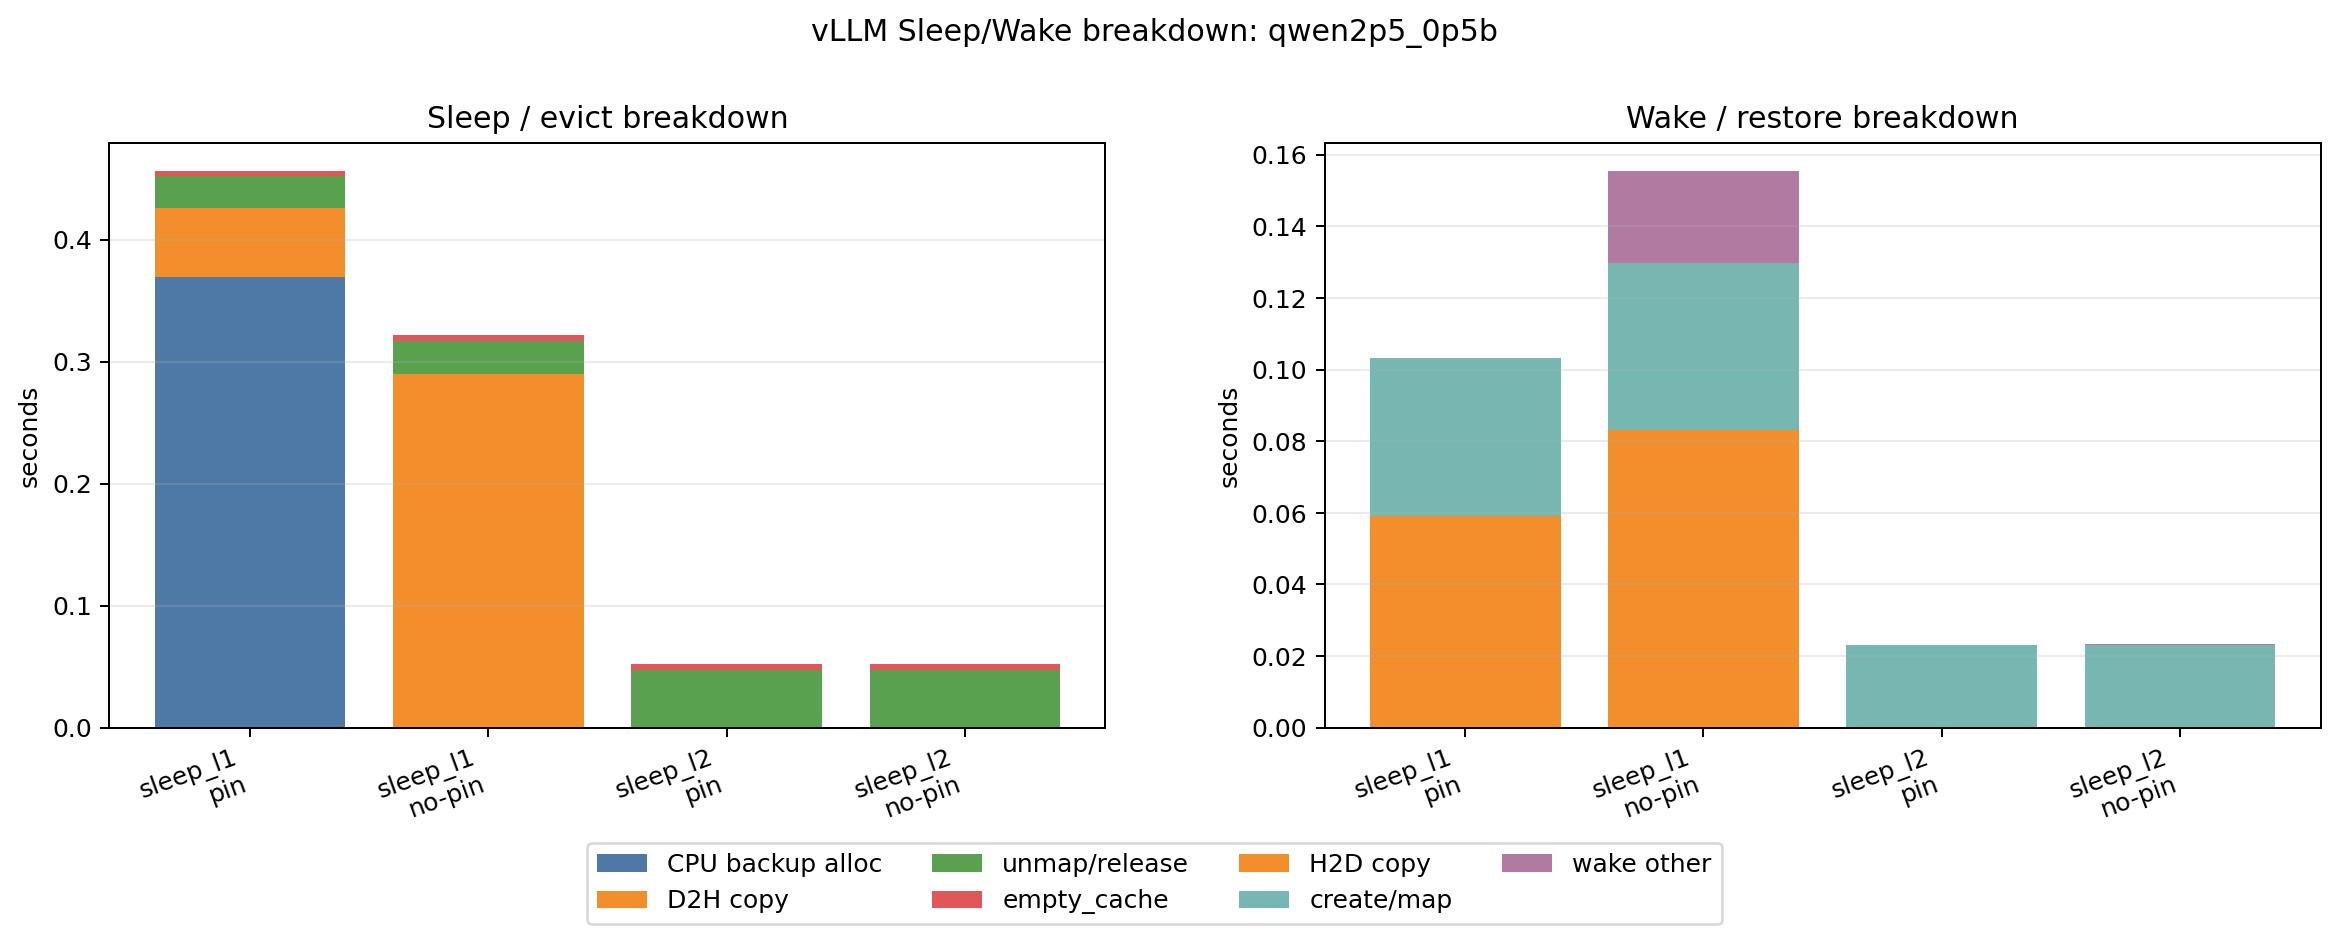
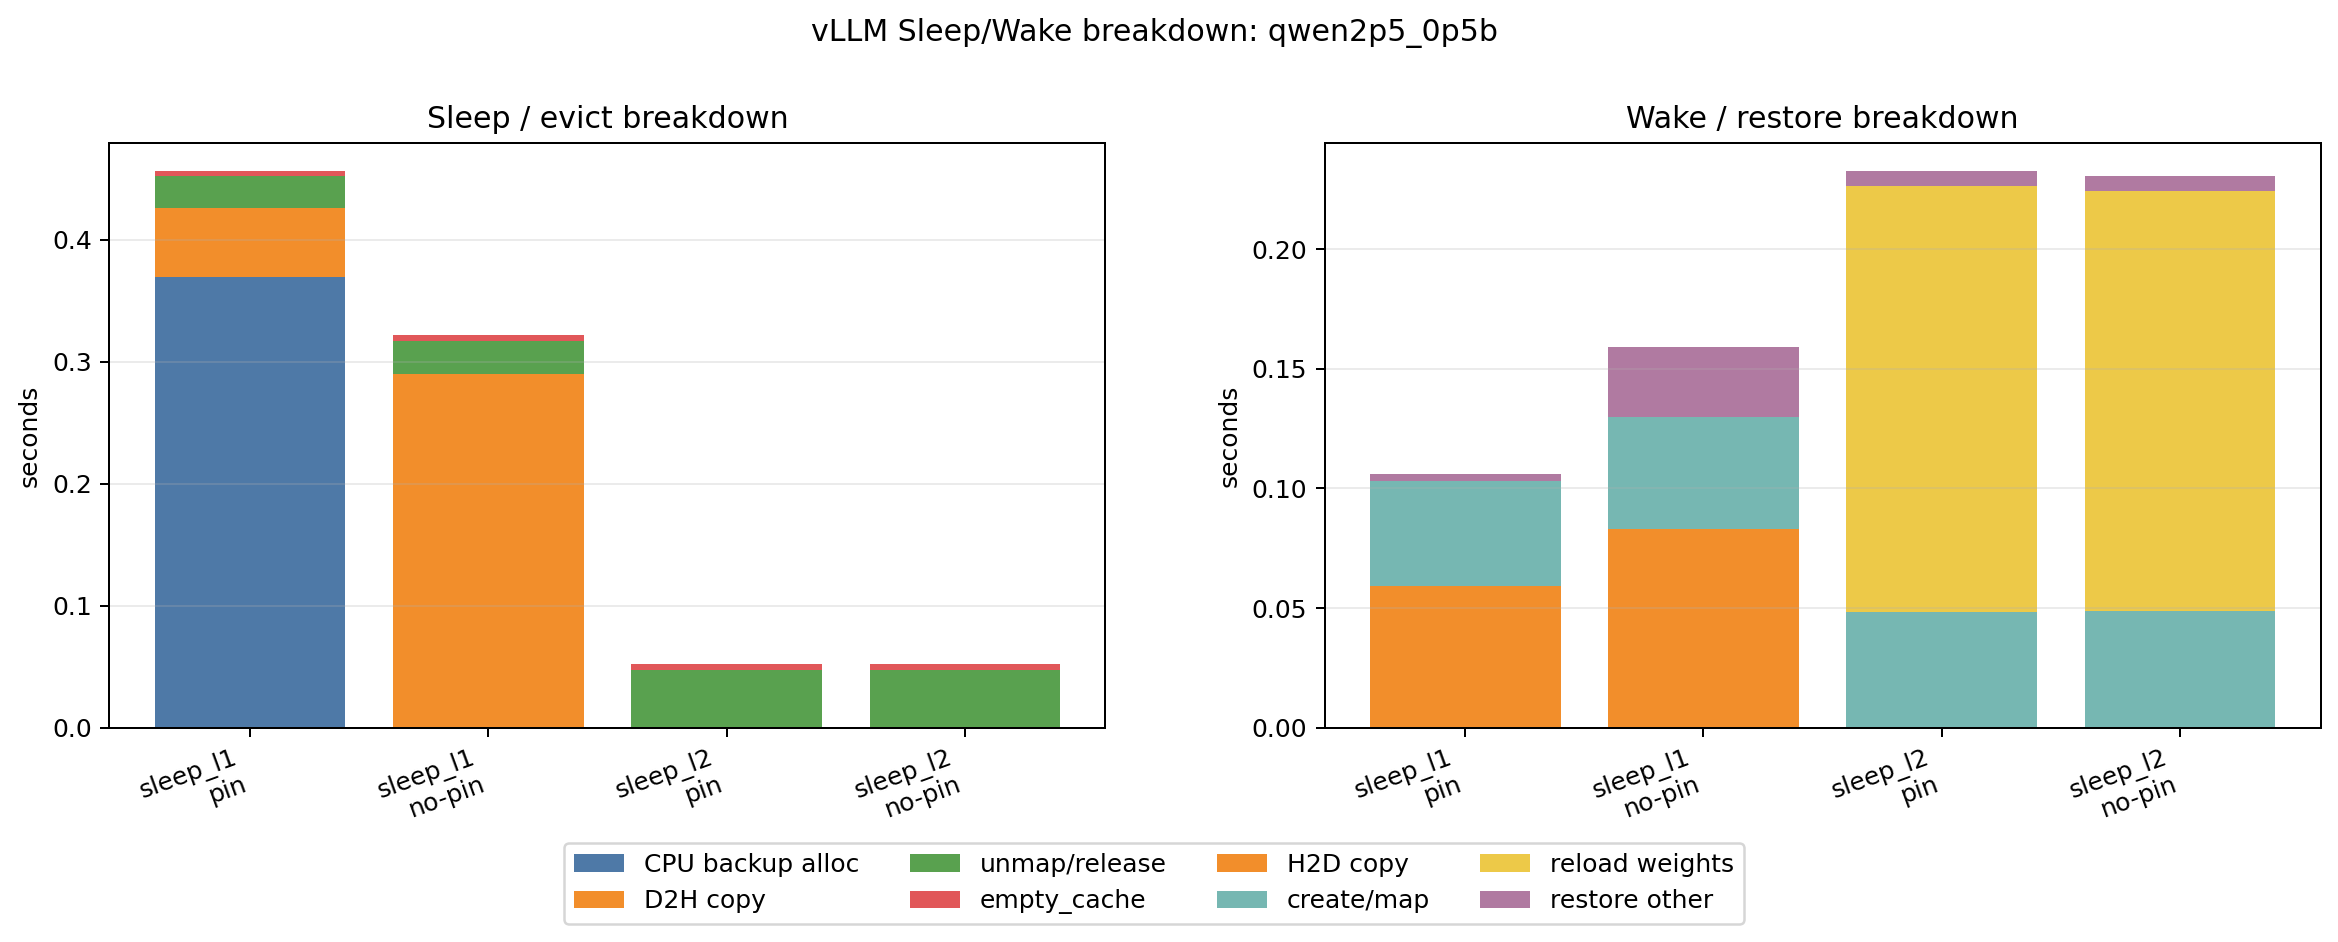
plot: add reload weights in profiling

diff --git a/src/tool/plot_vllm_pin_compare.py b/src/tool/plot_vllm_pin_compare.py
@@ -2,6 +2,7 @@ from __future__ import annotations
 
 import argparse
 import csv
+import json
 from collections import defaultdict
 from pathlib import Path
 from typing import Any
@@ -21,7 +22,8 @@ SLEEP_COMPONENTS = [
 WAKE_COMPONENTS = [
     ("copy_h2d_s_mean", "H2D copy", "#F28E2B"),
     ("create_map_s_mean", "create/map", "#76B7B2"),
-    ("wake_other_s", "wake other", "#B07AA1"),
+    ("reload_weights_s_mean", "reload weights", "#EDC948"),
+    ("wake_other_s", "restore other", "#B07AA1"),
 ]
 
 
@@ -35,7 +37,60 @@ def metric(row: dict[str, Any], key: str) -> float:
     return float(row.get(key, 0.0) or 0.0)
 
 
-def load_summary(path: Path, method: str) -> list[dict[str, Any]]:
+def mean(values: list[float]) -> float:
+    return sum(values) / len(values) if values else 0.0
+
+
+def load_restore_step_means(result_dir: Path) -> dict[tuple[str, str, str], dict[str, float]]:
+    step_means: dict[tuple[str, str, str], dict[str, float]] = {}
+    for summary_path in result_dir.glob("qwen2p5_*/pin_*/*/summary.json"):
+        model = summary_path.parts[-4]
+        pin_memory = summary_path.parts[-3].replace("pin_", "")
+        rows = json.loads(summary_path.read_text(encoding="utf-8"))
+        if not rows:
+            continue
+        method = rows[0].get("method", "")
+        reload_weights = []
+        restore = []
+        copy_h2d = []
+        create_map = []
+        profile_path = summary_path.with_name("sleep_profile_summary.csv")
+        allocator_by_repeat: dict[int, dict[str, float]] = defaultdict(
+            lambda: {"copy_h2d_s": 0.0, "create_map_s": 0.0}
+        )
+        if profile_path.exists():
+            with profile_path.open("r", encoding="utf-8", newline="") as handle:
+                for profile_row in csv.DictReader(handle):
+                    if profile_row.get("phase") != "allocator_wake_up":
+                        continue
+                    operation = profile_row.get("operation") or ""
+                    if not operation.startswith("wake"):
+                        continue
+                    repeat_index = int(profile_row.get("repeat_index") or 0)
+                    allocator_by_repeat[repeat_index]["copy_h2d_s"] += parse_float(
+                        profile_row.get("copy_h2d_s")
+                    )
+                    allocator_by_repeat[repeat_index]["create_map_s"] += parse_float(
+                        profile_row.get("create_map_s")
+                    )
+        for row in rows:
+            repeat_index = int(row.get("repeat_index") or 0)
+            restore.append(parse_float((row.get("restore") or {}).get("latency_s")))
+            steps = (row.get("restore") or {}).get("steps") or {}
+            reload_weights.append(parse_float((steps.get("reload_weights") or {}).get("latency_s")))
+            allocator = allocator_by_repeat.get(repeat_index, {})
+            copy_h2d.append(float(allocator.get("copy_h2d_s", 0.0)))
+            create_map.append(float(allocator.get("create_map_s", 0.0)))
+        step_means[(model, method, pin_memory)] = {
+            "restore_total_s_mean": mean(restore),
+            "reload_weights_s_mean": mean(reload_weights),
+            "copy_h2d_s_mean": mean(copy_h2d),
+            "create_map_s_mean": mean(create_map),
+        }
+    return step_means
+
+
+def load_summary(path: Path, method: str, step_means: dict[tuple[str, str, str], dict[str, float]] | None = None) -> list[dict[str, Any]]:
     with path.open("r", encoding="utf-8", newline="") as handle:
         rows = []
         for row in csv.DictReader(handle):
@@ -44,6 +99,12 @@ def load_summary(path: Path, method: str) -> list[dict[str, Any]]:
             for key, value in list(item.items()):
                 if key.endswith("_mean") or key in {"gpu_memory_utilization", "n"}:
                     item[key] = parse_float(value)
+            extra = (step_means or {}).get((str(item["model"]), str(item["method"]), str(item["pin_memory"])), {})
+            item["reload_weights_s_mean"] = extra.get("reload_weights_s_mean", 0.0)
+            if extra:
+                item["copy_h2d_s_mean"] = extra.get("copy_h2d_s_mean", metric(item, "copy_h2d_s_mean"))
+                item["create_map_s_mean"] = extra.get("create_map_s_mean", metric(item, "create_map_s_mean"))
+            restore_total_s = extra.get("restore_total_s_mean", metric(item, "restore_latency_s_mean"))
             item["sleep_other_s"] = max(
                 0.0,
                 metric(item, "allocator_sleep_s_mean")
@@ -54,17 +115,20 @@ def load_summary(path: Path, method: str) -> list[dict[str, Any]]:
             )
             item["wake_other_s"] = max(
                 0.0,
-                metric(item, "allocator_wake_s_mean")
+                restore_total_s
                 - metric(item, "copy_h2d_s_mean")
-                - metric(item, "create_map_s_mean"),
+                - metric(item, "create_map_s_mean")
+                - metric(item, "reload_weights_s_mean"),
             )
             rows.append(item)
         return rows
 
 
 def load_all(sleep_l1_dir: Path, sleep_l2_dir: Path) -> list[dict[str, Any]]:
-    return load_summary(sleep_l1_dir / "analysis_summary" / "summary.csv", "sleep_l1") + load_summary(
-        sleep_l2_dir / "analysis_summary" / "summary.csv", "sleep_l2"
+    l1_steps = load_restore_step_means(sleep_l1_dir)
+    l2_steps = load_restore_step_means(sleep_l2_dir)
+    return load_summary(sleep_l1_dir / "analysis_summary" / "summary.csv", "sleep_l1", l1_steps) + load_summary(
+        sleep_l2_dir / "analysis_summary" / "summary.csv", "sleep_l2", l2_steps
     )
 
 
